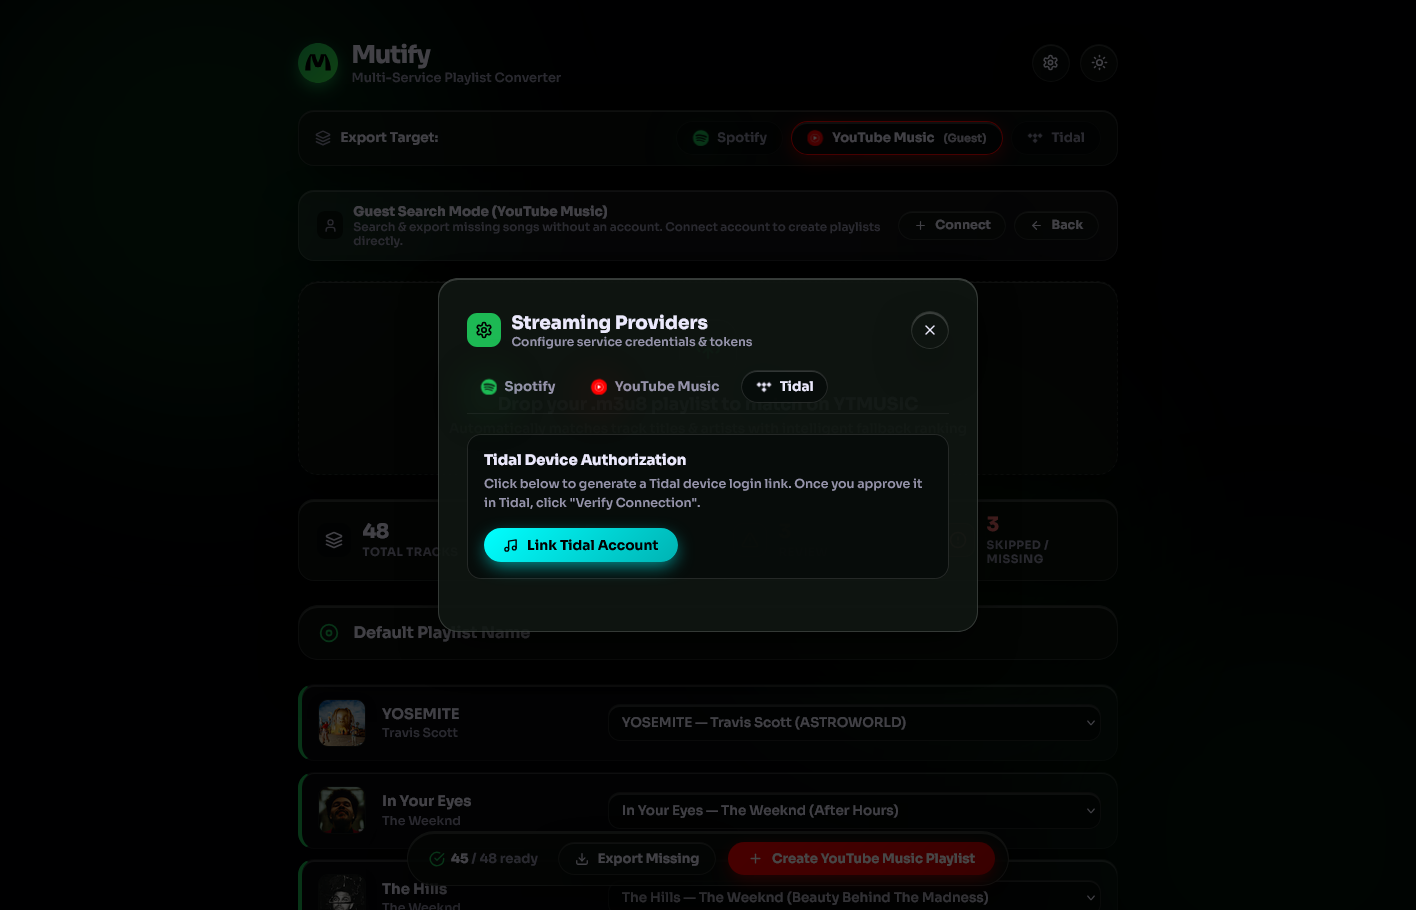
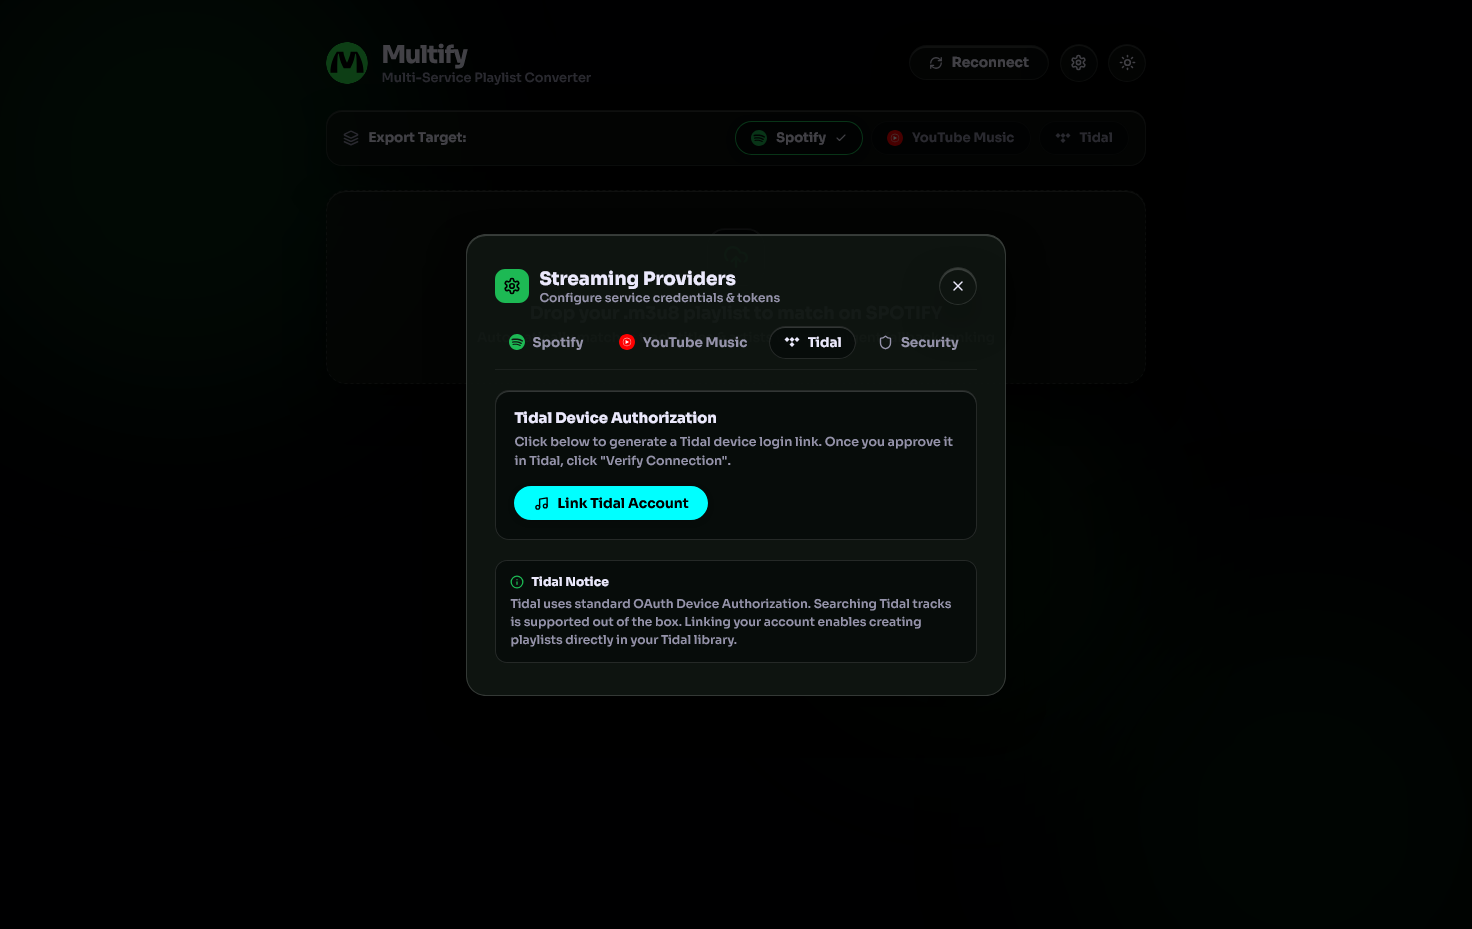
docs: update screenshots with Homepage and Login screens in README

diff --git a/README.md b/README.md
@@ -26,21 +26,28 @@
 
 ## Screenshots & Interface
 
-### 1. Landing Page & Multi-Service Hub
+### 1. Homepage & Multi-Service Hub
 Select your target streaming service with dedicated glowing hero cards and direct dropzone import.
 
 <p align="center">
-  <img src="assets/LandingPage.png" alt="Multify Landing Page" width="800" />
+  <img src="assets/HomePage.png" alt="Multify Homepage" width="800" />
 </p>
 
 ### 2. Intelligent Matcher & Track Review
-Live status badges, album art previews, and dropdown candidate selector with manual override and skip options.
+Live status badges, album art previews, and dropdown candidate selector with manual override, skip options, and navigation jumper.
 
 <p align="center">
   <img src="assets/SongItem.png" alt="Track Match Review" width="800" />
 </p>
 
-### 3. Provider Settings & Credentials
+### 3. Master Login & App Protection
+Secure master access protection to keep your converter instance, streaming configurations, and credentials safe.
+
+<p align="center">
+  <img src="assets/Login.png" alt="Multify Login Screen" width="800" />
+</p>
+
+### 4. Provider Settings & Credentials
 Tabbed credential management for Spotify OAuth, YouTube Music session headers, and Tidal device authorization.
 
 <p align="center">
